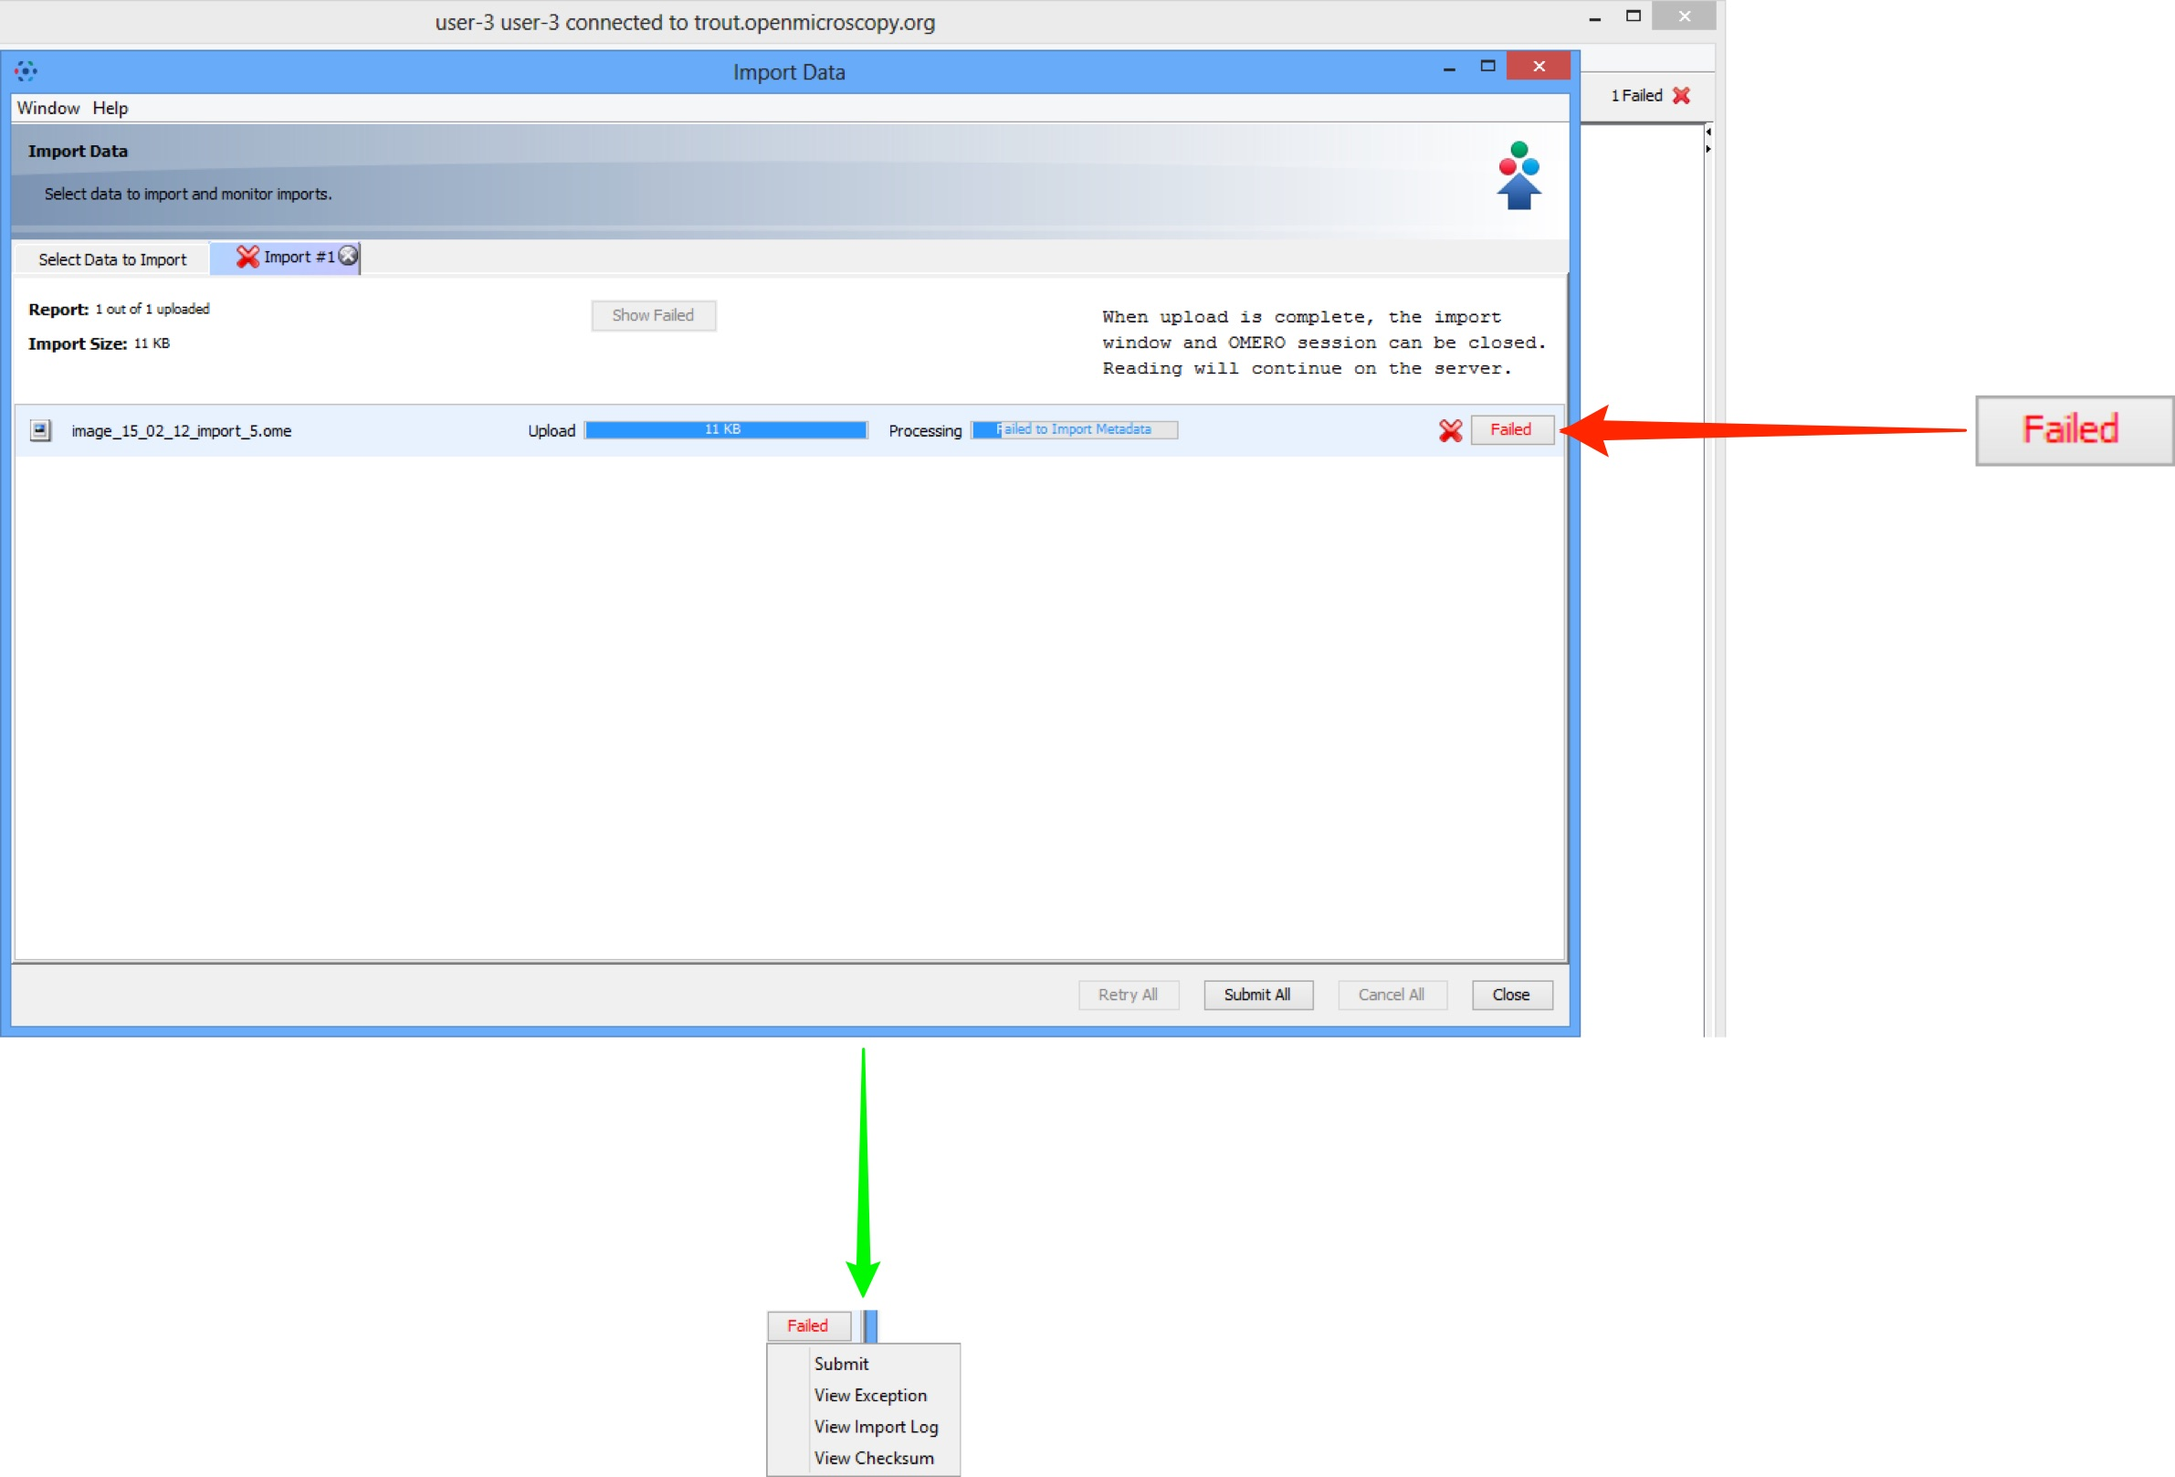
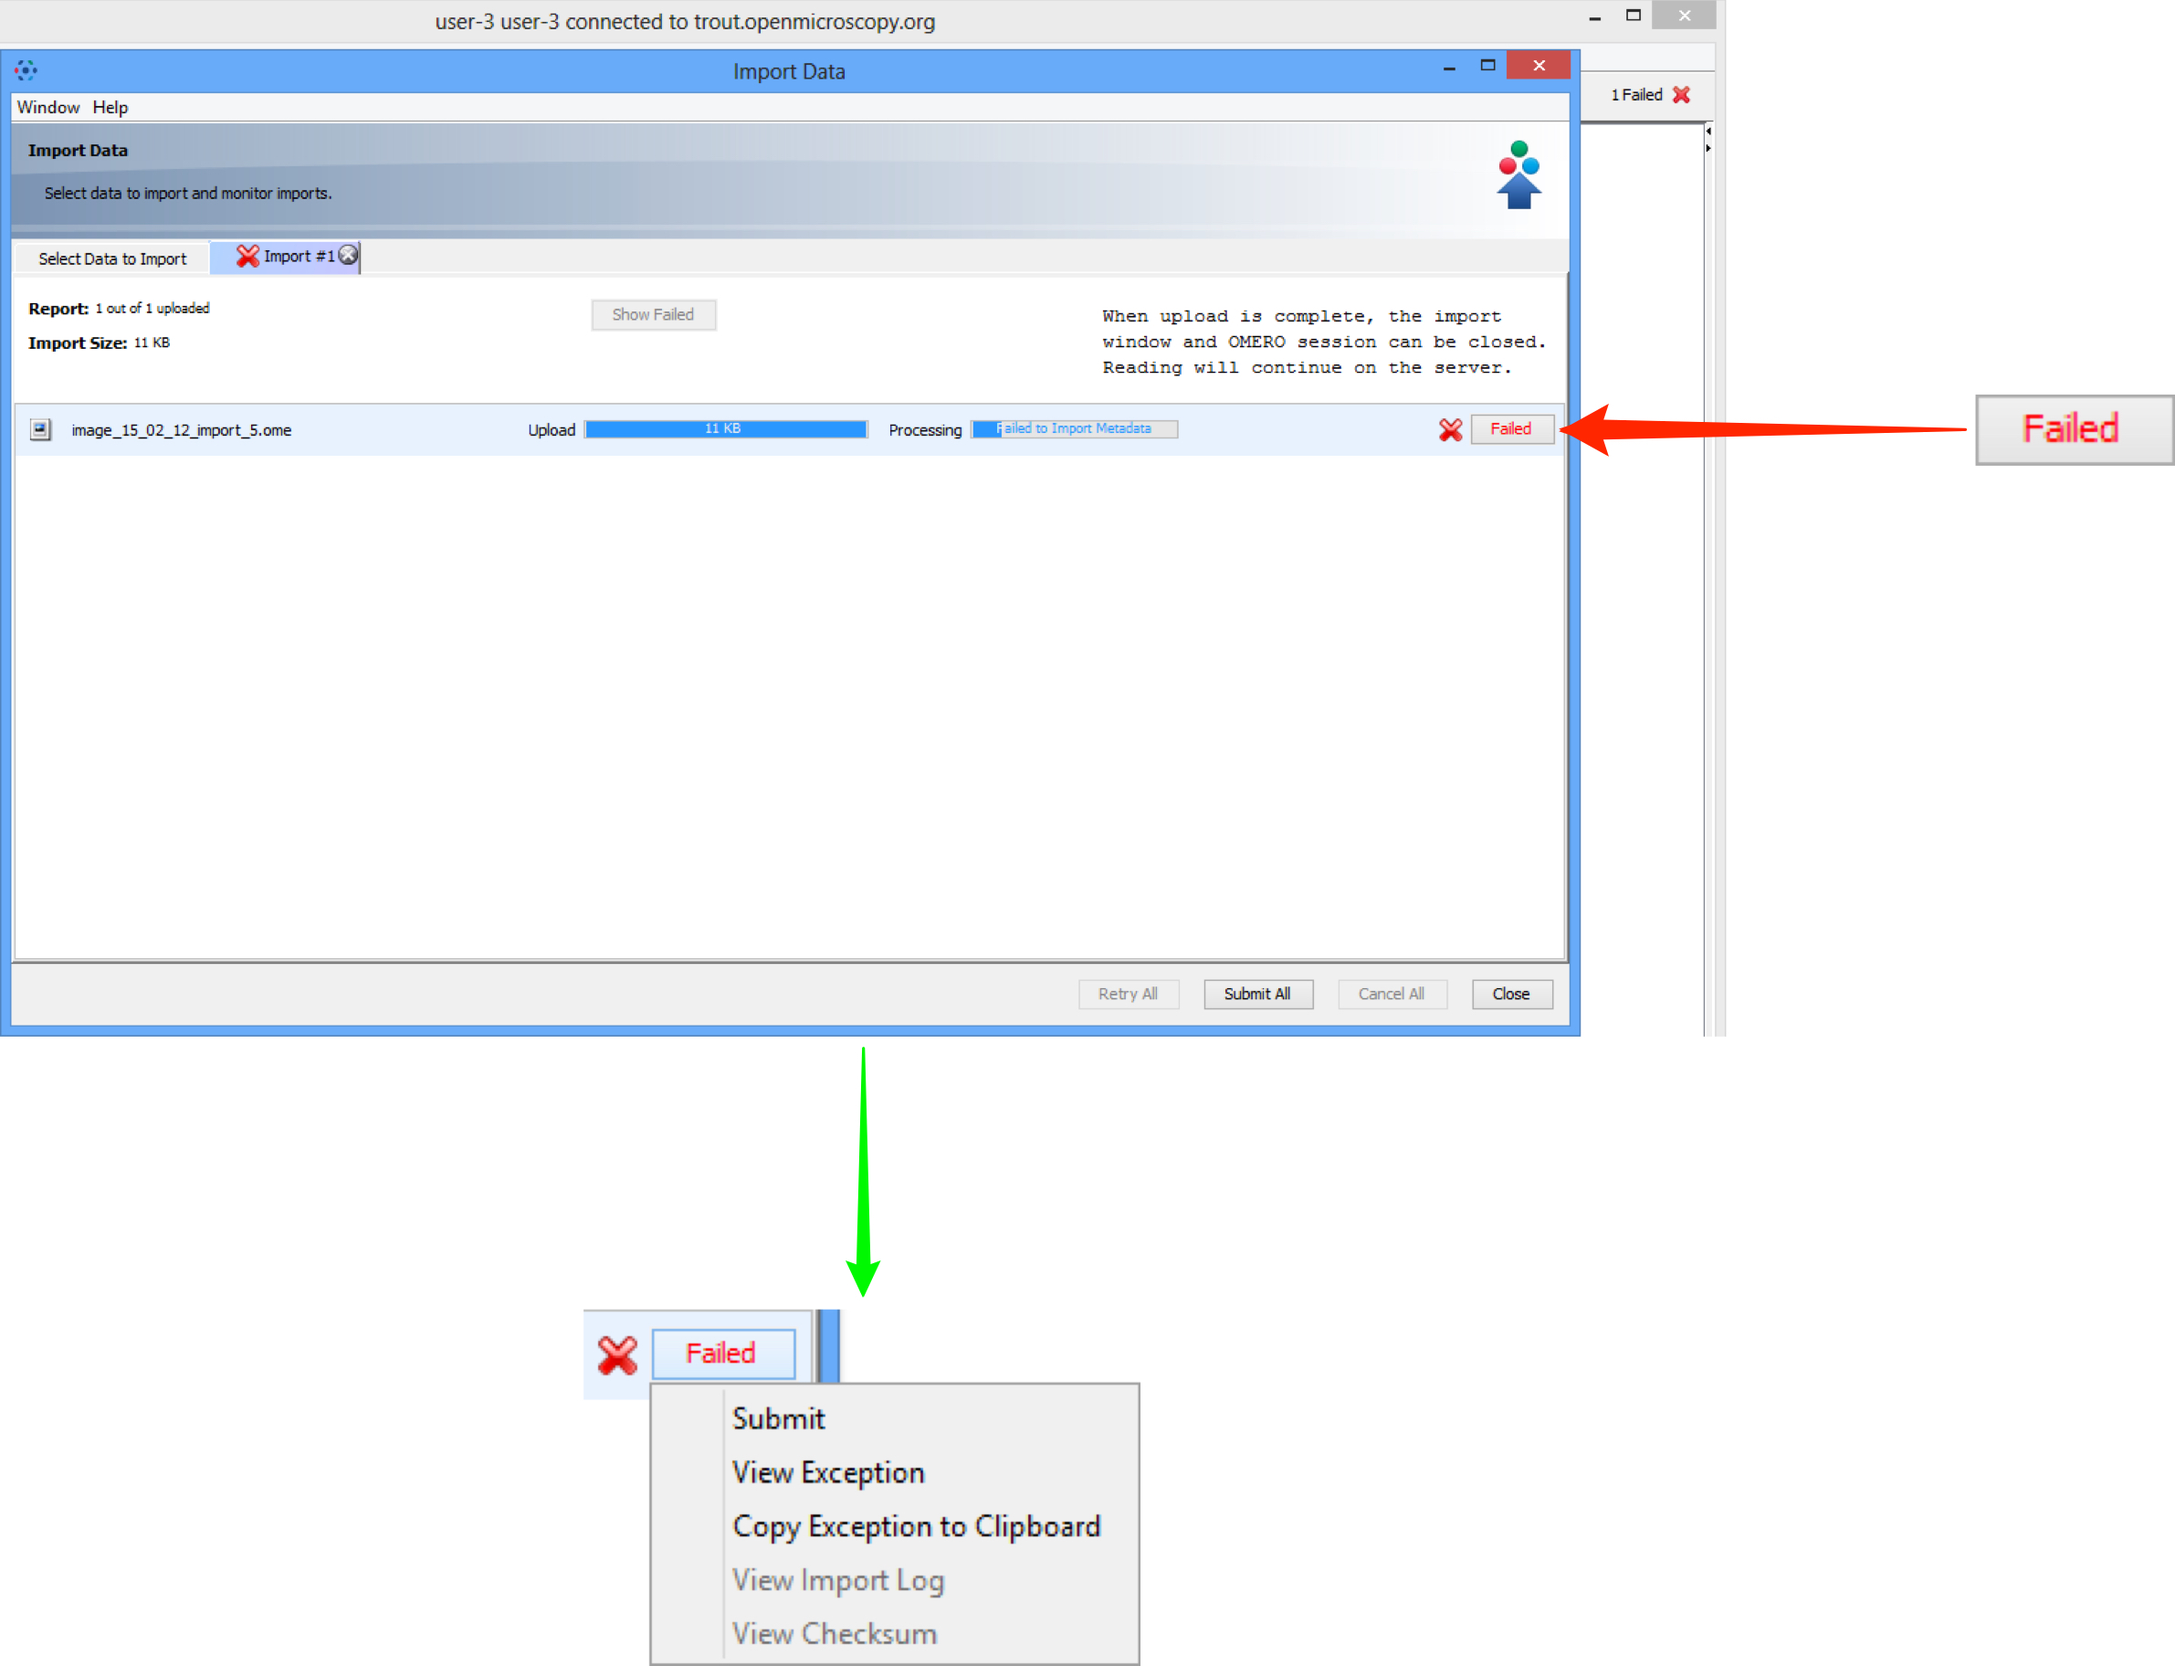
Updating Import Failure screenshots and text to reflect new menu options

Changed region(s): [[0.0, 0.5566, 0.7456, 1.0], [0.0, 0.0, 0.7767, 0.3092], [0.2485, 0.1855, 1.0, 0.3401]]

diff --git a/troubleshooting.html b/troubleshooting.html
@@ -201,8 +201,7 @@ If this happens follow the instructions in the <a href="#submit">Submitting file
 
 <li>
 <p class="first">Select <span class="bold">View Exception</span> from the drop-down menu to see OMERO system error information.</p>
-<p class="first">Select <span class="bold">View Import Log</span> to view the relevant OMERO log information.</p>
-<p class="first">Select <span class="bold">View Checksum</span> to see the file and server checksums.</p>
+<p class="first">Select <span class="bold">Copy Exception to Clipboard</span> to copy the OMERO system error to the clipboard for pasting into an email or forum..</p>
 
 <div class="line-block">
 <div class="line"><br /></div> <!-- end #line -->
